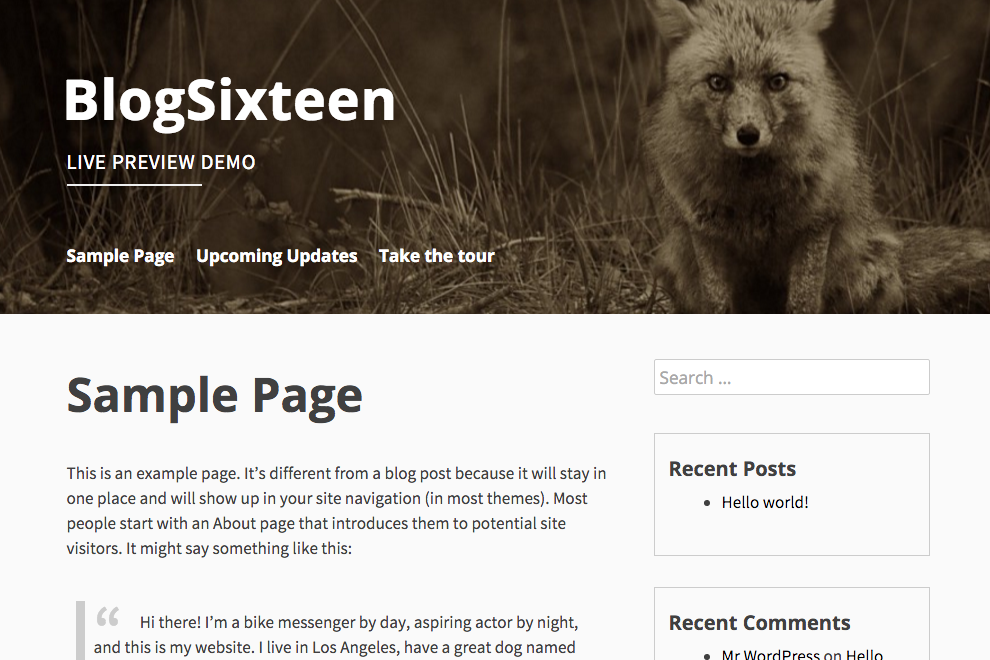
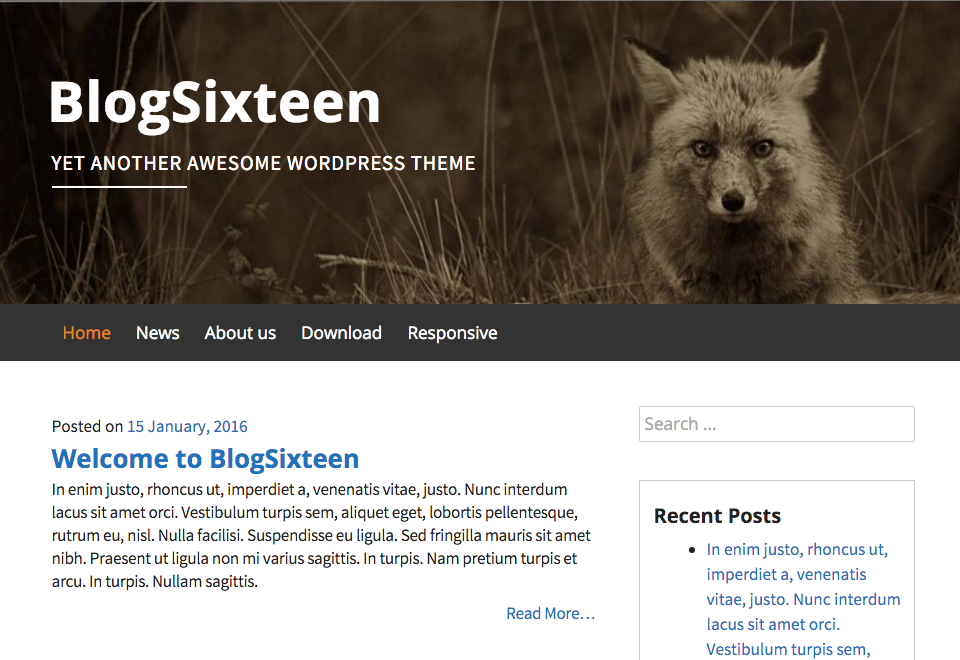
Added 1.4.5 fixes

diff --git a/style.css b/style.css
@@ -54,7 +54,7 @@ abbr[title] {
 	border-bottom: 1px dotted;
 }
 
-b, strong {
+b, strong { 
 	font-weight: bold;
 }
 
@@ -418,7 +418,13 @@ a:hover, a:active {
 
 
 .main-navigation {
+	background: #333;
 	margin-bottom: 1.5em;
+}
+
+.current_page_item a ,
+.main-navigation a:hover {
+	color: #e18728;
 }
 
 .main-navigation ul {
@@ -434,15 +440,10 @@ a:hover, a:active {
 
 .main-navigation a {
 	font-family: 'Open Sans', sans-serif;
-	font-weight: 700;
 	display: block;
 	text-decoration: none;
 	padding: 8px 12px;
 	white-space: nowrap;
-}
-
-.main-navigation li:nth-child(1) a  {
-	padding: 8px 12px 8px 0px;
 }
 
 .main-navigation .children a,
@@ -460,13 +461,13 @@ a:hover, a:active {
 	border-color: #fff;
 }
 
-.main-navigation .children li:nth-child(1):hover:before,
-.main-navigation .sub-menu li:nth-child(1):hover:before {
+.main-navigation .children > li:nth-child(1):hover:before,
+.main-navigation .sub-menu > li:nth-child(1):hover:before {
 	border-bottom-color: #fff;
 }
 
-.main-navigation .children li:nth-child(1):hover:after,
-.main-navigation .sub-menu li:nth-child(1):hover:after {
+.main-navigation .children > li:nth-child(1):hover:after,
+.main-navigation .sub-menu > li:nth-child(1):hover:after {
 	border-bottom-color: #fff;
 }
 
@@ -643,7 +644,31 @@ a:hover, a:active {
 
 /* Search widget. */
 .widget_search .search-submit {
-	display: none;
+	clip: rect(1px,1px,1px,1px);
+	position: absolute !important;
+	height: 1px;
+	width: 1px;
+	overflow: hidden;
+}
+
+.widget_search .search-submit:focus {
+	background-color: #f1f1f1;
+	border-radius: 3px;
+	box-shadow: 0;
+	clip: auto !important;
+	color: #21759b;
+	display: block;
+	font-size: 14px;
+	font-size: 0.875rem;
+	font-weight: bold;
+	height: auto;
+	left: 5px;
+	line-height: normal;
+	padding: 15px 23px 14px;
+	text-decoration: none;
+	top: 5px;
+	width: auto;
+	z-index: 100000; /* Above WP toolbar. */
 }
 
 /*--------------------------------------------------------------
@@ -845,6 +870,15 @@ h1.entry-title {
 # Responsive
 --------------------------------------------------------------*/
 
+@media only screen and (min-width: 37.5em) {
+	.main-navigation {
+		position: absolute;
+		bottom: 0;
+		left: 0;
+		right: 0;
+	}
+}
+
 @media only screen and (max-width : 37.5em) {
 
 	.site-branding {
@@ -853,7 +887,6 @@ h1.entry-title {
 		text-align: center;
     	float: none;
 	}
-
 
 	.site-content {
 		margin-top: 1em;
@@ -991,7 +1024,8 @@ h1.entry-title {
 }
 
 #masthead {
-	height: 350px;
+	height: 400px;
+	position: relative;
 }
 
 /*--------------------------------------------------------------
@@ -1108,4 +1142,11 @@ blockquote:before {
 
 blockquote p {
   display: inline;
+}
+
+.read-more {
+	color: #1e73be !important;
+	display: block;
+	text-align: right;
+	margin-top: 10px;
 }

diff --git a/js/focus.js b/js/focus.js
@@ -1,0 +1,32 @@
+( function() {
+	var container,
+		links;
+
+	container = document.getElementById( 'site-navigation' );
+	if ( ! container ) {
+		return;
+	}
+
+	links = container.getElementsByTagName( 'a' );
+
+	for ( i = 0, len = links.length; i < len; i++ ) {
+		links[i].onfocus = toggleFocus;
+		links[i].onblur = toggleFocus;
+	}
+
+	// Toggle the .focus class on menu items.
+	function toggleFocus() {
+		var current = this;
+
+		while ( container !== current ) {
+			if ( 'li' === current.tagName.toLowerCase() ) {
+				if ( -1 !== current.className.indexOf( 'focus' ) ) {
+					current.className = current.className.replace( ' focus', '' );
+				} else {
+					current.className += ' focus';
+				}
+			}
+			current = current.parentElement;
+		}
+	}
+} )();

diff --git a/js/navigation.js b/js/navigation.js
@@ -79,12 +79,3 @@
 		}
 	}
 } )();
-
-/* Back To Top on document ready */
-
-$(document).ready(function(){
-	$("a[href='#top']").click(function() {
-		$("html, body").animate({ scrollTop: 0 }, "slow");
-		return false;
-	});
-});

diff --git a/inc/theme-colors.php b/inc/theme-colors.php
@@ -52,6 +52,48 @@ function blogsixteen_register_theme_customizer( $wp_customize ) {
     );
 
     $wp_customize->add_setting(
+        'blogsixteen_menu_background',
+        array(
+            'default'     => '#333',
+            'sanitize_callback' => 'esc_url_raw'
+        )
+    );
+
+    $wp_customize->add_control(
+        new WP_Customize_Color_Control(
+            $wp_customize,
+            'menu_background',
+            array(
+                'label'      => __( 'Main navigation background', 'blogsixteen' ),
+                'section'    => 'colors',
+                'settings'   => 'blogsixteen_menu_background',
+                'sanitize_callback' => 'esc_url_raw'
+            )
+        )
+    );
+
+    $wp_customize->add_setting(
+        'blogsixteen_menu_color_active',
+        array(
+            'default'     => '#e18728',
+            'sanitize_callback' => 'esc_url_raw'
+        )
+    );
+
+    $wp_customize->add_control(
+        new WP_Customize_Color_Control(
+            $wp_customize,
+            'menu_color_active',
+            array(
+                'label'      => __( 'Main navigation links (active/hover)', 'blogsixteen' ),
+                'section'    => 'colors',
+                'settings'   => 'blogsixteen_menu_color_active',
+                'sanitize_callback' => 'esc_url_raw'
+            )
+        )
+    );
+
+    $wp_customize->add_setting(
         'blogsixteen_body_color',
         array(
             'default'     => '#fafafa',
@@ -175,6 +217,8 @@ function blogsixteen_customizer_css() {
         .site-description:after { border-color: <?php echo esc_html (get_theme_mod ('blogsixteen_header_color') ); ?>; }
         #masthead { background-repeat: no-repeat; background-size: cover; background-image: url('<?php esc_url(header_image()); ?>'); ;}
         #masthead { background-color: <?php echo esc_html(get_theme_mod ('blogsixteen_header_background_color') );?>; }
+        .main-navigation { background-color: <?php echo esc_html(get_theme_mod('blogsixteen_menu_background') ); ?>; }
+        .current_page_item a, .main-navigation a:focus, .main-navigation a:hover { color: <?php echo esc_html(get_theme_mod('blogsixteen_menu_color_active') ); ?>; }
     </style>
     <?php
 }

diff --git a/functions.php b/functions.php
@@ -75,7 +75,7 @@ function blogsixteen_setup() {
 	add_theme_support( 'custom-header', apply_filters( 'blogsixteen_custom_header_args', array(
 		'default-image' => get_template_directory_uri() . '/images/header.jpg',
 		'width'         => 1200,
-		'height'        => 350,
+		'height'        => 400,
 		'uploads'       => true,
 	) ) );
 }
@@ -94,6 +94,17 @@ function blogsixteen_content_width() {
 }
 add_action( 'after_setup_theme', 'blogsixteen_content_width', 0 );
 
+
+/**
+*
+* Read more to posts
+*
+*/
+
+function blogsixteen_new_excerpt_more( $more ) {
+	return ' <a class="read-more" href="' . get_permalink( get_the_ID() ) . '">' . __( 'Read More...', 'blogsixteen' ) . '</a>';
+}
+add_filter( 'excerpt_more', 'blogsixteen_new_excerpt_more' );
 
 /**
  * Register widget area.
@@ -122,6 +133,8 @@ function blogsixteen_scripts() {
 	wp_enqueue_style( 'blogsixteen-style', get_stylesheet_uri() );
 
 	wp_enqueue_script( 'blogsixteen-navigation', get_template_directory_uri() . '/js/navigation.js', array(), '20120206', true );
+
+		wp_enqueue_script( 'blogsixteen-focus', get_template_directory_uri() . '/js/focus.js', array(), '20160130', true );
 
 	wp_enqueue_script( 'blogsixteen-skip-link-focus-fix', get_template_directory_uri() . '/js/skip-link-focus-fix.js', array(), '20130115', true );
 

diff --git a/header.php b/header.php
@@ -36,11 +36,12 @@
 					</hgroup>
 			<?php endif; ?>
 		</div><!-- .site-branding -->
-		<nav id="site-navigation" class="main-navigation" role="navigation">
+		<nav role="navigation" id="site-navigation" class="main-navigation" aria-label='<?php _e( 'Primary Menu ', 'blogsixteen' ); ?>'>
 			<div class="header-menu">
-				<?php wp_nav_menu( array( 'theme_location' => 'primary', 'menu_id' => 'primary-menu' ) ); ?>
+				<h1 class="screen-reader-text"><?php _e( 'Primary Menu', 'blogsixteen' ); ?></h1>
+				<?php wp_nav_menu( array( 'theme_location'=>'primary' ) ); ?>
 			</div>
-		</nav><!-- #site-navigation -->
+		</nav>
 	</header><!-- #masthead -->
 
 	<div id="page" class="hfeed site">

diff --git a/single.php b/single.php
@@ -10,7 +10,7 @@
 get_header();?>
 
 	<div id="primary" class="content-area">
-		<main id="main" class="site-main no-sidebar" role="main">
+		<main id="main" class="site-main" role="main">
 
 		<?php while ( have_posts() ) : the_post(); ?>
 
@@ -30,4 +30,5 @@ get_header();?>
 		</main><!-- #main -->
 	</div><!-- #primary -->
 
+<?php get_sidebar(); ?>
 <?php get_footer(); ?>
